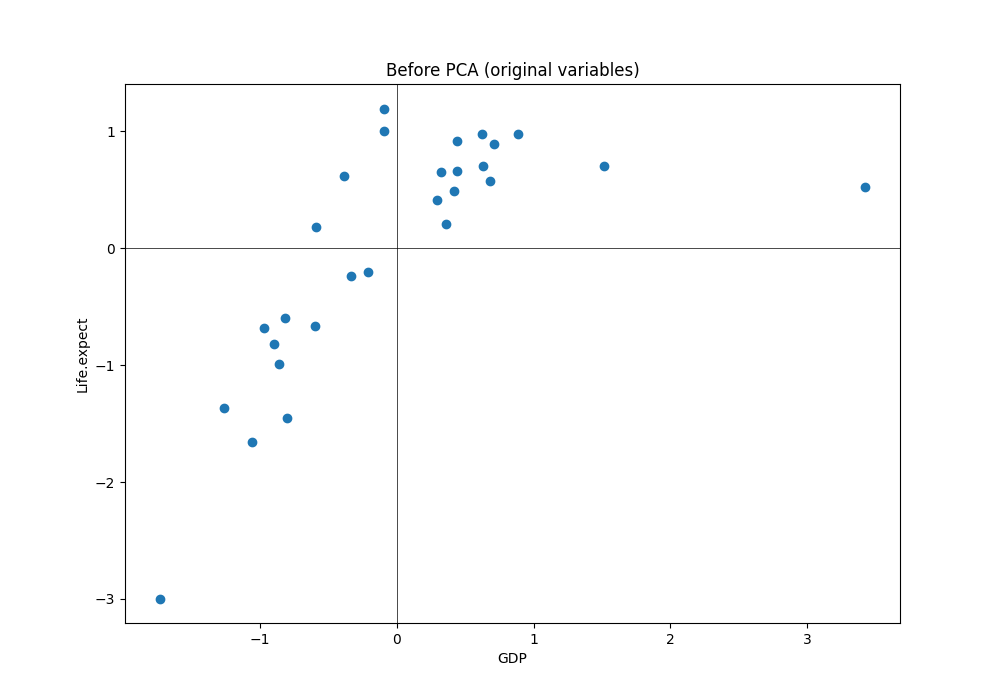
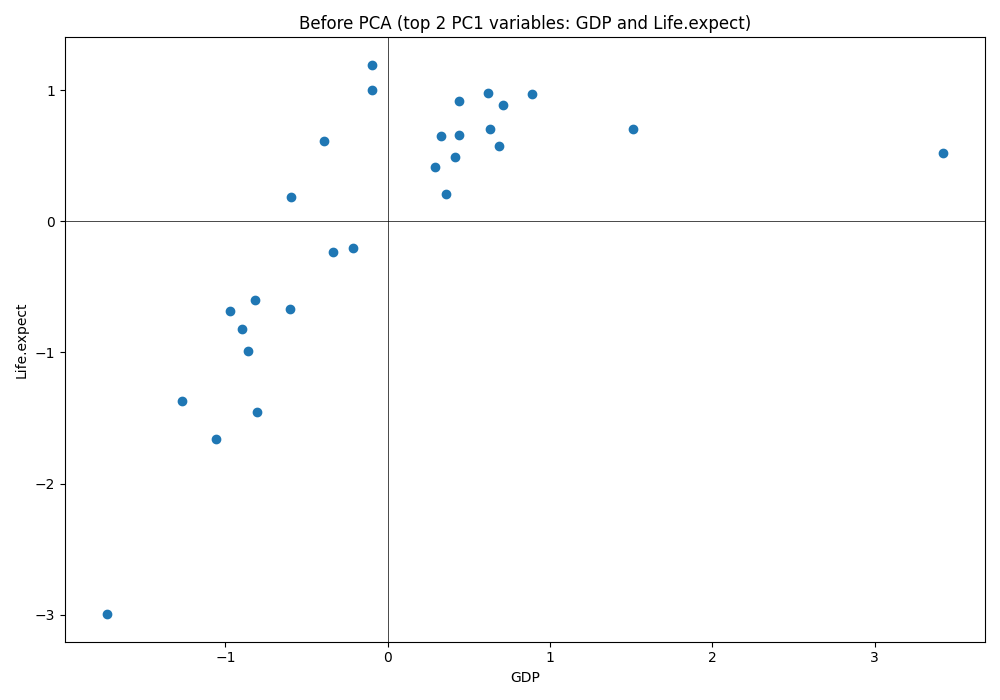
added scree plot

diff --git a/pc_demo.py b/pc_demo.py
@@ -17,21 +17,31 @@ def pca_function():
 
     # 3. calculate eigenvalues and eigenvectors
     eigenvalues, eigenvectors = np.linalg.eig(correlation_matrix)
-    print(f"All eigenvalues: {eigenvalues}")
     sorted_indices = np.argsort(eigenvalues)[::-1]
+    all_sorted_eigenvalues = eigenvalues[sorted_indices]
+    all_sorted_eigenvectors = eigenvectors[:, sorted_indices]
 
-    # keep only the first two eigenvalues/eigenvectors for PC1 and PC2
-    pc1_pc2_eigenvalues = eigenvalues[sorted_indices][:2]
-    pc1_pc2_eigenvectors = eigenvectors[:, sorted_indices][:, :2]
+    # keep only the first two eigenvectors for PC1 and PC2
+    pc1_pc2_eigenvectors = all_sorted_eigenvectors[:, :2]
 
-    # 4. print PC1 loadings (weights of each variable in Y1)
-    print("=== PC1 Loadings ===")
-    for var, weight in zip(numeric_data.columns, pc1_pc2_eigenvectors[:, 0]):
-        print(f"  {var}: {weight:.4f}")
-    print(f"\n  Eigenvalue PC1: {pc1_pc2_eigenvalues[0]:.4f}")
-    print(f"  Variance explained by PC1: {pc1_pc2_eigenvalues[0] / sum(eigenvalues) * 100:.1f}%")
+    # 4. print eigenvalue table
+    print("=== Eigenvalue Table ===")
+    print(f"{'PC':<6} {'Eigenvalue':<12} {'% Variance':<12}")
+    for i, val in enumerate(all_sorted_eigenvalues):
+        pct = val / sum(eigenvalues) * 100
+        print(f"{'PC' + str(i + 1):<6} {val:<12.4f} {pct:<12.1f}")
+    print("-" * 45)
 
-    # 5. project data onto PC1 and PC2
+    # 5. print loadings table
+    print("\n=== Eigenvector Weights Table ===")
+    header = f"{'Variable':<15}" + "".join([f"{'PC'+str(i+1):<10}" for i in range(len(eigenvalues))])
+    print(header)
+    print("-" * (15 + 10 * len(eigenvalues)))
+    for j, var in enumerate(numeric_data.columns):
+        row = f"{var:<15}" + "".join([f"{all_sorted_eigenvectors[j, i]:<10.4f}" for i in range(len(eigenvalues))])
+        print(row)
+
+    # 6. project data onto PC1 and PC2
     projected = scaled_array @ pc1_pc2_eigenvectors
 
     # --- GRAPH 1: before PCA ---
@@ -46,9 +56,10 @@ def pca_function():
     plt.scatter(scaled_array[:, top2_indices[0]], scaled_array[:, top2_indices[1]])
     plt.xlabel(top2_vars[0])
     plt.ylabel(top2_vars[1])
-    plt.title('Before PCA (original variables)')
+    plt.title(f'Before PCA (top 2 PC1 variables: {top2_vars[0]} and {top2_vars[1]})')
     plt.axhline(0, color='black', linewidth=0.5)
     plt.axvline(0, color='black', linewidth=0.5)
+    plt.tight_layout()
     plt.savefig('before_pca.png')
 
     # --- GRAPH 2: PC1 vs PC2 scatter ---
@@ -56,9 +67,10 @@ def pca_function():
     plt.scatter(projected[:, 0], projected[:, 1])
     plt.xlabel('PC1')
     plt.ylabel('PC2')
-    plt.title('PCA - European Countries')
+    plt.title('After PCA - European Countries (PC1 vs PC2)')
     plt.axhline(0, color='black', linewidth=0.5)
     plt.axvline(0, color='black', linewidth=0.5)
+    plt.tight_layout()
     plt.savefig('pca_scatter.png')
 
     # --- GRAPH 3: bar chart PC1 per country ---
@@ -68,7 +80,20 @@ def pca_function():
     plt.xlabel('Country')
     plt.ylabel('PC1')
     plt.title('PC1 per Country')
+    plt.tight_layout()
     plt.savefig('pc1_bar.png')
+
+    # --- GRAPH 4: scree plot (eigenvalues) ---
+    plt.figure(figsize=(8, 5))
+    plt.plot(range(1, len(eigenvalues) + 1), all_sorted_eigenvalues, 'bo-')
+    plt.axhline(y=1, color='red', linestyle='--', label='Kaiser criterion (eigenvalue = 1)')
+    plt.xlabel('PC')
+    plt.ylabel('Eigenvalue')
+    plt.title('Scree Plot')
+    plt.xticks(range(1, len(eigenvalues) + 1), [f'PC{i}' for i in range(1, len(eigenvalues) + 1)])
+    plt.legend()
+    plt.tight_layout()
+    plt.savefig('scree_plot.png', bbox_inches='tight')
 
 if __name__ == '__main__':
     pca_function()